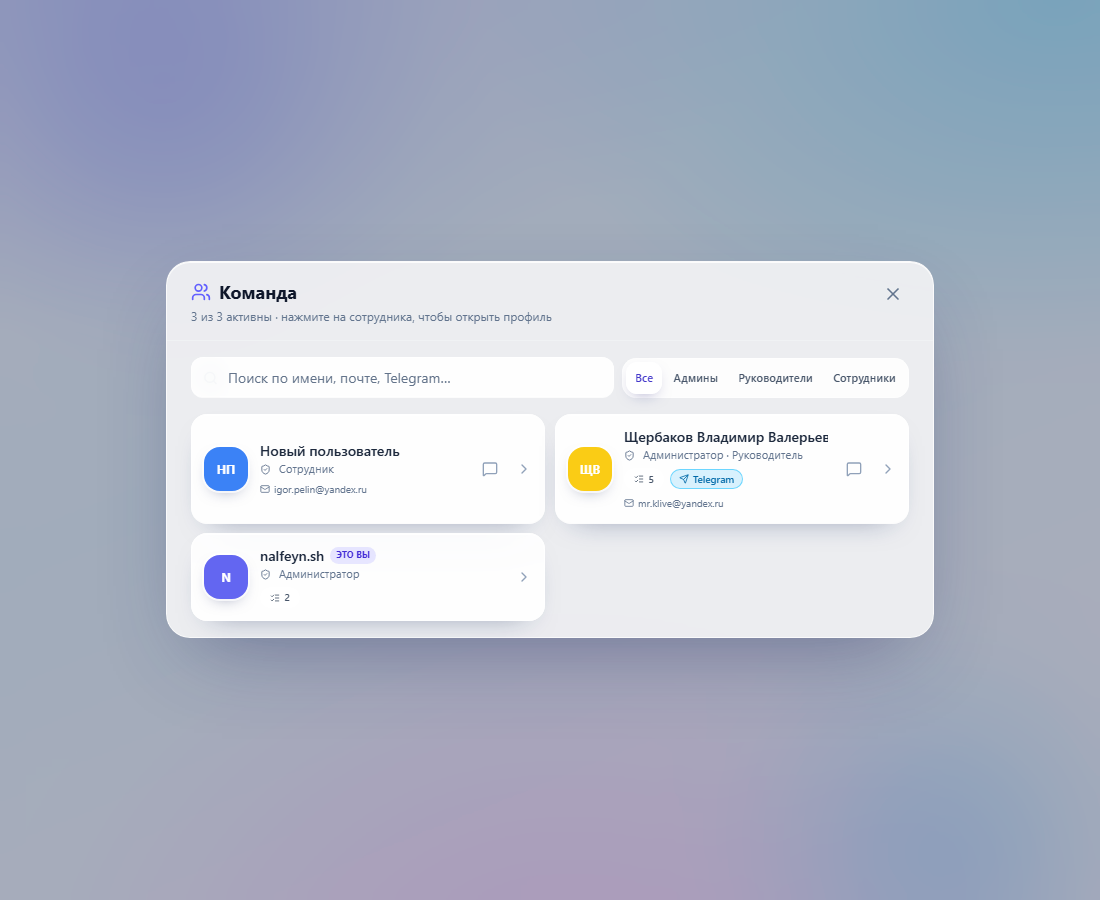
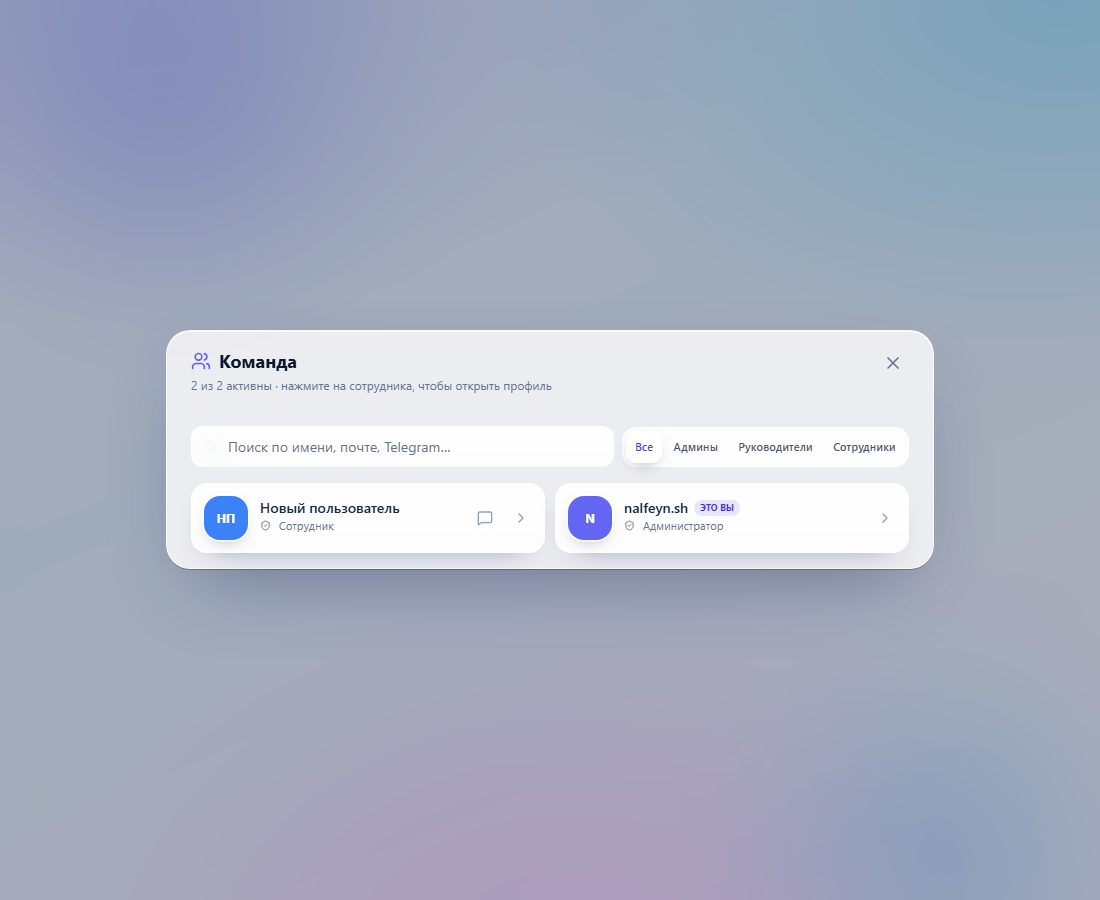
fix: кнопка чата в команде — отдельная, вне кликабельной карточки
Иконка чата и стрелка профиля вынесены из карточки-кнопки в отдельные кнопки справа; клик по иконке не открывает профиль.

diff --git a/src/components/TeamModal.jsx b/src/components/TeamModal.jsx
@@ -128,7 +128,7 @@ export default function TeamModal({
                 const tasksCount = taskCountByUser?.get(member.id) ?? 0;
 
                 return (
-                  <li key={member.id}>
+                  <li key={member.id} className="relative">
                     <div
                       role="button"
                       tabIndex={0}
@@ -139,7 +139,7 @@ export default function TeamModal({
                           onSelectMember(member);
                         }
                       }}
-                      className="glass-card group flex h-full cursor-pointer items-center gap-3 rounded-2xl p-3"
+                      className="glass-card group flex h-full cursor-pointer items-center gap-3 rounded-2xl p-3 pr-20"
                     >
                       <span
                         className="flex h-11 w-11 shrink-0 items-center justify-center rounded-2xl text-xs font-bold text-white avatar-ring"
@@ -195,14 +195,14 @@ export default function TeamModal({
                         </div>
                       </div>
 
+                    </div>
+
+                    <div className="absolute top-1/2 right-2 flex -translate-y-1/2 items-center gap-1">
                       {!isSelf && (
                         <button
                           type="button"
-                          onClick={(event) => {
-                            event.stopPropagation();
-                            onOpenChat?.(member);
-                          }}
-                          className="shrink-0 rounded-xl p-1.5 text-slate-400 transition hover:bg-indigo-500/15 hover:text-indigo-600 dark:hover:text-indigo-300"
+                          onClick={() => onOpenChat?.(member)}
+                          className="rounded-xl p-2 text-slate-400 transition hover:bg-indigo-500/15 hover:text-indigo-600 dark:hover:text-indigo-300"
                           title={`Написать в чат: ${member.full_name || 'сотрудник'}`}
                           aria-label={`Написать в чат: ${member.full_name || 'сотрудник'}`}
                         >
@@ -210,10 +210,15 @@ export default function TeamModal({
                         </button>
                       )}
 
-                      <ChevronRight
-                        size={16}
-                        className="shrink-0 text-slate-400 transition-transform group-hover:translate-x-0.5 group-hover:text-indigo-500"
-                      />
+                      <button
+                        type="button"
+                        onClick={() => onSelectMember(member)}
+                        className="rounded-xl p-2 text-slate-400 transition hover:bg-white/50 hover:text-indigo-500 dark:hover:bg-white/5"
+                        title={`Открыть профиль: ${member.full_name || 'сотрудник'}`}
+                        aria-label={`Открыть профиль: ${member.full_name || 'сотрудник'}`}
+                      >
+                        <ChevronRight size={16} />
+                      </button>
                     </div>
                   </li>
                 );
